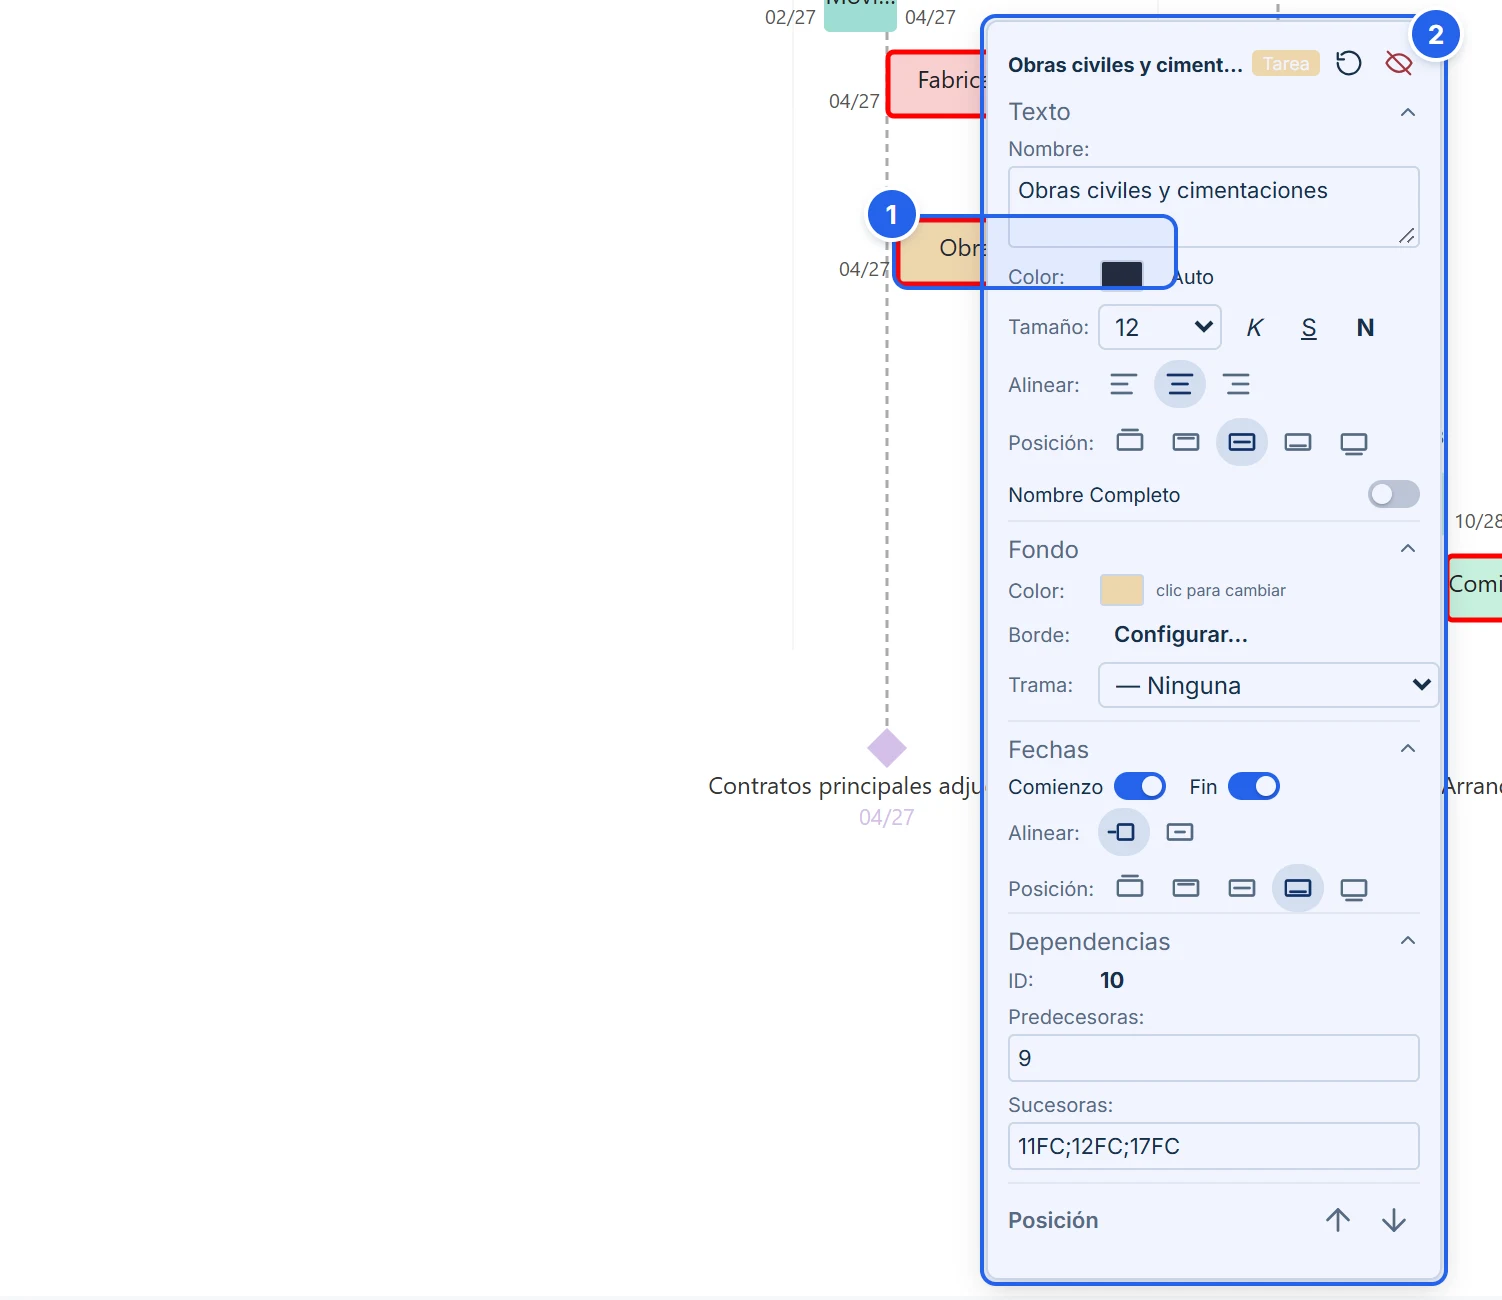
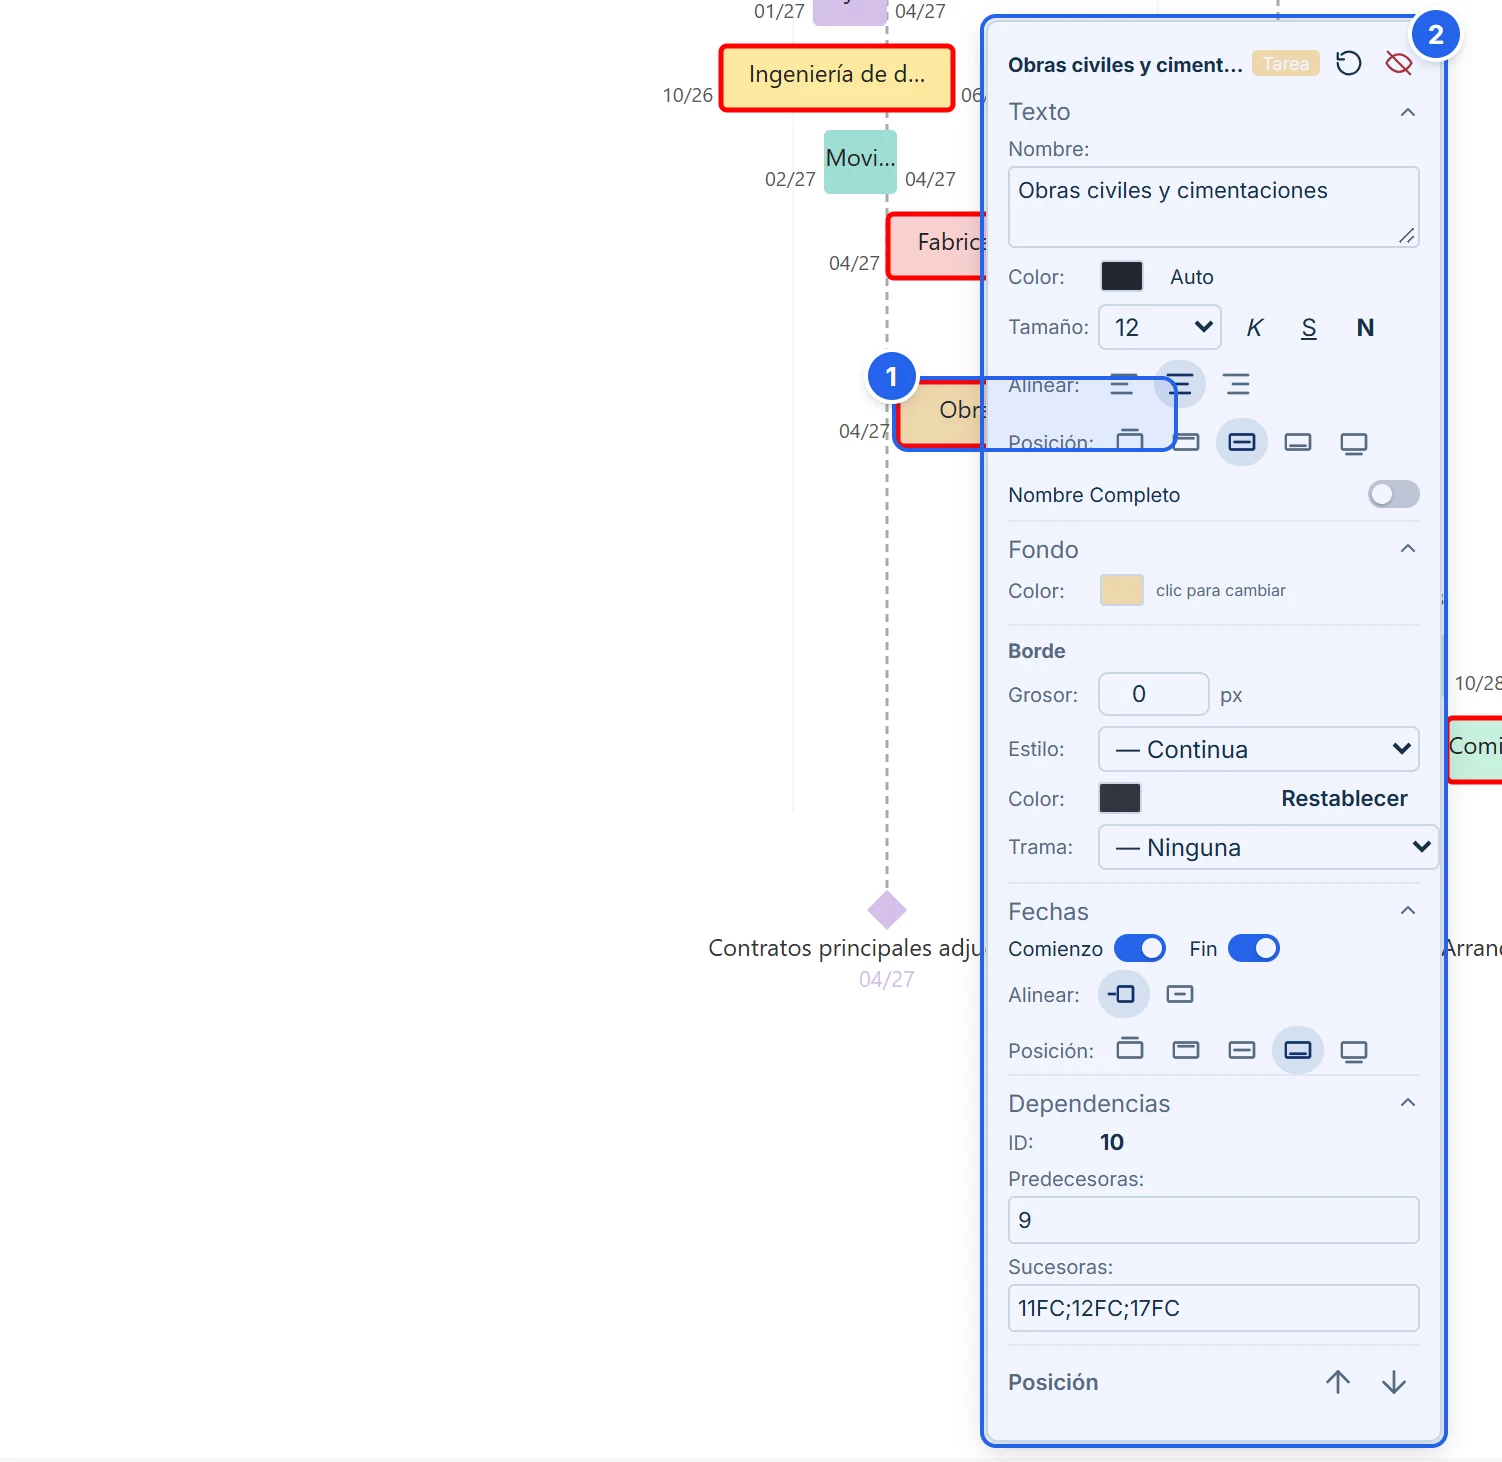
Borde de años y barras: sección integrada en su menú (grosor, estilo, color) en lugar de una ventana aparte
- Menú del año y panel de la barra: sección «Borde» con divisor y controles a la vista
- La fila de borde solo aparece en tareas (se oculta en hitos y eventos)
- Manual y figuras actualizadas

diff --git a/src/OpenGanttLab 3.1.html b/src/OpenGanttLab 3.1.html
@@ -1905,9 +1905,11 @@ tr.ed-mv input.eirp,tr.ed-mv input.efrp,tr.ed-mv input.edur{background:#fff1cf;b
       <span id="pbmSwatch" style="width:22px;height:16px;display:inline-block;border:1px solid var(--line);border-radius:2px;cursor:pointer" title="Clic para cambiar color barra"></span>
       <span class="pop-unit" style="font-size:8px">clic para cambiar</span>
     </div>
-    <div id="pbmBorderRow" style="display:flex;align-items:center;gap:5px;font-size:10px">
-      <span class="pop-unit" style="min-width:40px">Borde:</span>
-      <button type="button" class="rb-flat" style="padding:2px 8px" onclick="presOpenBarBorder(event)" title="Grosor, estilo y color del contorno de la barra">Configurar…</button>
+    <div id="pbmBorderRow" style="display:flex;flex-direction:column;gap:5px;font-size:10px;border-top:1px solid var(--grid);margin-top:4px;padding-top:6px">
+      <span class="pop-unit" style="font-weight:700">Borde</span>
+      <div style="display:flex;align-items:center;gap:5px"><span class="pop-unit" style="min-width:40px">Grosor:</span><input type="number" id="pbmBdW" class="pop-num" min="0" max="8" step="0.5" oninput="presBdSet('bar')" style="width:56px"><span class="pop-unit">px</span></div>
+      <div style="display:flex;align-items:center;gap:5px"><span class="pop-unit" style="min-width:40px">Estilo:</span><select id="pbmBdDash" class="rb-sel" onchange="presBdSet('bar')" style="flex:1;max-width:none"><option value="solid">— Continua</option><option value="dotted">· · Punteada</option><option value="dashed">— Rayada</option><option value="dashed2">— Mixta</option></select></div>
+      <div style="display:flex;align-items:center;gap:5px"><span class="pop-unit" style="min-width:40px">Color:</span><span id="pbmBdColor" onclick="presBdColor('bar')" style="width:22px;height:16px;display:inline-block;border:1px solid var(--line);border-radius:2px;cursor:pointer" title="Clic para cambiar color"></span><button type="button" class="rb-flat" style="padding:1px 6px;margin-left:auto" onclick="presBdReset('bar')">Restablecer</button></div>
     </div>
     <div id="pbmPatternRow" style="display:flex;align-items:center;gap:5px;font-size:10px">
       <span class="pop-unit" style="min-width:40px">Trama:</span>
@@ -2388,10 +2390,13 @@ tr.ed-mv input.eirp,tr.ed-mv input.efrp,tr.ed-mv input.edur{background:#fff1cf;b
       <option value="18">18</option><option value="20">20</option><option value="24">24</option>
     </select>
   </div>
-  <div style="display:flex;align-items:center;gap:8px;margin-bottom:8px">
-    <span style="font-size:10px;color:#666;min-width:42px">Borde:</span>
-    <button type="button" onclick="presOpenYearBorder(event)" style="font-size:10px;padding:2px 8px;cursor:pointer;border:1px solid #ccc;border-radius:3px;background:#f5f5f5">Configurar…</button>
+  <div style="border-top:1px solid #e3e3e3;margin:0 0 8px;padding-top:8px">
+    <div style="font-size:10px;font-weight:700;color:#555;margin-bottom:6px">Borde</div>
+    <div style="display:flex;align-items:center;gap:8px;margin-bottom:6px"><span style="font-size:10px;color:#666;min-width:42px">Grosor:</span><input type="number" id="pymBdW" min="0" max="8" step="0.5" oninput="presBdSet('year')" style="width:52px;font:inherit;font-size:10px;padding:2px 4px;border:1px solid #ccc;border-radius:3px"><span style="font-size:9px;color:#aaa">px</span></div>
+    <div style="display:flex;align-items:center;gap:8px;margin-bottom:6px"><span style="font-size:10px;color:#666;min-width:42px">Estilo:</span><select id="pymBdDash" onchange="presBdSet('year')" style="font:inherit;padding:2px 4px;border:1px solid #ccc;border-radius:3px;font-size:10px;flex:1"><option value="solid">— Continua</option><option value="dotted">· · Punteada</option><option value="dashed">— Rayada</option><option value="dashed2">— Mixta</option></select></div>
+    <div style="display:flex;align-items:center;gap:8px"><span style="font-size:10px;color:#666;min-width:42px">Color:</span><span id="pymBdColor" onclick="presBdColor('year')" style="width:22px;height:16px;display:inline-block;border:1px solid #999;border-radius:2px;cursor:pointer"></span><button type="button" onclick="presBdReset('year')" style="margin-left:auto;font-size:9px;padding:1px 6px;cursor:pointer;border:1px solid #ccc;border-radius:2px;background:#f5f5f5">Restablecer</button></div>
   </div>
+  <div style="border-top:1px solid #e3e3e3;margin:8px 0 0;padding-top:8px"></div>
   <div style="display:flex;align-items:center;gap:8px;margin-bottom:8px" title="Une este año con los siguientes en una sola banda de la franja">
     <span style="font-size:10px;color:#666;min-width:42px">Unir hasta:</span>
     <select id="pymMergeTo" onchange="presYearMergeSet()" style="font:inherit;padding:2px 4px;border:1px solid #ccc;border-radius:3px;font-size:10px;flex:1"></select>
@@ -4240,7 +4245,7 @@ function applyPickerColor(color){
   else if(_cpTarget.type==='presdeltacolor'){if(_cpTarget.w==='A')_deltaCA=color;else _deltaCB=color;renderPres();closeColorPicker();return;}
   else if(_cpTarget.type==='preslegtitle'){PRES_LEGEND_CFG.titleColor=color;const sw=document.getElementById('plgTitleColor');if(sw)sw.style.background=color;renderPres();closeColorPicker();return;}
   else if(_cpTarget.type==='presconn'){const c=PRES_CONNECTORS.find(q=>q.id===_conMenuId);if(c){_presSnap();c.color=color;const sw=document.getElementById('pcmColor');if(sw)sw.style.background=color;renderPres();}closeColorPicker();return;}
-  else if(_cpTarget.type==='presborder'){if(_presBorderCtx){_presSnap();_presBorderObj(_presBorderCtx).borderColor=color;const sw=document.getElementById('pbdColor');if(sw)sw.style.background=color;renderPres();}closeColorPicker();return;}
+  else if(_cpTarget.type==='presborder'){if(_presBorderCtx){_presSnap();_presBorderObj(_presBorderCtx).borderColor=color;const sw=document.getElementById('pbdColor');if(sw)sw.style.background=color;['pymBdColor','pbmBdColor'].forEach(i=>{const e=document.getElementById(i);if(e)e.style.background=color;});renderPres();}closeColorPicker();return;}
   else if(_cpTarget.type==='pressubprocband'){_presSubprocColors[_cpTarget.v]=color;renderPres();closeColorPicker();return;}
   else if(_cpTarget.type==='pressubproccolor'){_presSubprocCol=color;_presSubprocColors={};presSyncSegUI();renderPres();closeColorPicker();return;}
   else if(_cpTarget.type==='presyeardivcolor'){_presYearDivCol=color;presSyncSegUI();renderPres();closeColorPicker();return;}
@@ -5735,6 +5740,31 @@ function presOpenBorderMenu(kind,key,x,y){
    +'<div style="display:flex;gap:8px;align-items:center;margin-bottom:8px"><span style="min-width:44px;color:#666">Estilo:</span><select id="pbdDash" onchange="presBorderSet()" style="flex:1;font:inherit;font-size:11px;padding:2px 4px;border:1px solid #ccc;border-radius:3px">'+S('solid','— Continua')+S('dotted','· · Punteada')+S('dashed','— Rayada')+S('dashed2','— Mixta')+'</select></div>'
    +'<div style="display:flex;gap:8px;align-items:center"><span style="min-width:44px;color:#666">Color:</span><span id="pbdColor" onclick="presBorderPickColor()" style="width:22px;height:16px;display:inline-block;border:1px solid #999;border-radius:2px;cursor:pointer;background:'+col+'"></span><button type="button" onclick="presBorderReset()" style="margin-left:auto;font-size:10px;padding:1px 6px;border:1px solid #ccc;border-radius:3px;background:#f5f5f5;cursor:pointer">Restablecer</button></div>';
   m.style.display='block';m.style.left=Math.max(4,Math.min(x+4,innerWidth-232))+'px';m.style.top=Math.max(4,Math.min(y+4,innerHeight-(m.offsetHeight||180)-8))+'px';
+}
+// Borde integrado en los menús del año y de la barra (mismos datos que el menú de borde de los agrupadores)
+function _presBdCtx(kind){return{kind,key:kind==='year'?(_presYearIsLB?'LB':'')+_presYearKey:_presBarKey};}
+function presBdFill(kind){
+  const c=_presBdCtx(kind);if(!c.key)return;_presBorderCtx=c;
+  const o=_presBorderObj(c),p=kind==='year'?'pym':'pbm';
+  const w=document.getElementById(p+'BdW'),d=document.getElementById(p+'BdDash'),s=document.getElementById(p+'BdColor');
+  if(w)w.value=(o.borderW!=null&&o.borderW!=='')?o.borderW:0;if(d)d.value=o.borderDash||'solid';if(s)s.style.background=o.borderColor||'#333333';
+}
+function presBdSet(kind){
+  const c=_presBdCtx(kind);if(!c.key)return;_presBorderCtx=c;_presSnap();
+  const o=_presBorderObj(c),p=kind==='year'?'pym':'pbm',w=document.getElementById(p+'BdW'),d=document.getElementById(p+'BdDash');
+  if(w&&w.value!=='')o.borderW=Math.max(0,Math.min(8,+w.value));if(d)o.borderDash=d.value;
+  renderPres();
+}
+function presBdColor(kind){
+  _presBorderCtx=_presBdCtx(kind);_cpTarget={type:'presborder'};
+  document.getElementById('cpLabel').textContent='Color del borde';
+  const r=document.getElementById(kind==='year'?'pymBdColor':'pbmBdColor').getBoundingClientRect(),cp=document.getElementById('colorPicker');
+  cp.style.display='block';cp.style.left=Math.max(4,Math.min(r.right+6,innerWidth-250))+'px';cp.style.top=Math.max(4,Math.min(r.top,innerHeight-(cp.offsetHeight||300)))+'px';
+}
+function presBdReset(kind){
+  const c=_presBdCtx(kind);if(!c.key)return;_presBorderCtx=c;_presSnap();
+  const o=_presBorderObj(c);delete o.borderColor;delete o.borderW;delete o.borderDash;delete o.borderShape;
+  presBdFill(kind);renderPres();
 }
 function presOpenYearBorder(e){e.stopPropagation();presOpenBorderMenu('year',(_presYearIsLB?'LB':'')+_presYearKey,e.clientX,e.clientY);}
 function presOpenBarBorder(e){e.stopPropagation();if(!_presBarKey)return;presOpenBorderMenu('bar',_presBarKey,e.clientX,e.clientY);}
@@ -7396,6 +7426,7 @@ document.getElementById('presBody').addEventListener('dblclick',e=>{
     document.getElementById('pbmTitle').textContent=(key.startsWith('LB|')?'[LB] ':'')+parts[2];
     document.getElementById('pbmNombre').value=opt.label!==undefined?opt.label:parts[2];
     document.getElementById('pbmClase').textContent='Tarea';
+    presBdFill('bar');
     document.getElementById('pbmClase').style.background=CAT2_COLOR[parts[1]]||'#3b6ea5';
     document.getElementById('pbmSwatch').style.background=opt.color;
     // swatch de texto: mostrar color efectivo (manual si existe, si no el auto por contraste)
@@ -7522,6 +7553,7 @@ document.getElementById('presBody').addEventListener('dblclick',e=>{
     const wmSel=document.getElementById('pymWidthMul');
     if(wmSel) wmSel.value=PRES_YEAR_WIDTH_MUL[yrKey]||1;
     presYearMergeFill(yrKey,isLBYear);
+    presBdFill('year');
     const pym=document.getElementById('presYearMenu');
     pym.style.display='block';pym.style.left=Math.min(e.clientX+5,innerWidth-210)+'px';pym.style.top=Math.min(e.clientY+5,innerHeight-150)+'px';
   }

diff --git a/docs/manual/index.html b/docs/manual/index.html
@@ -465,7 +465,7 @@
 
 <h3 id="vistas--panel-edicion">El panel de edición</h3>
 <p>Un doble clic sobre una barra abre su panel de edición.</p>
-<figure class="fig" id="figura-42"><div class="imgbox"><img src="images/annotated/fig-42-ldt-panel-edicion.webp" width="751" height="650" alt="Panel de edición de una barra" loading="lazy" decoding="async"></div><figcaption><span class="fn">Figura 42 — Panel de edición de una barra</span><span class="fd">Todos los cambios del panel son visuales: nunca modifican la Tabla de Datos.</span><ol class="legend"><li>Barra seleccionada (doble clic)</li><li>Panel de edición</li></ol><div class="observe"><b>Qué observar</b><ul><li>Texto: nombre, color, tamaño, negrita, alineación y posición.</li><li>Fondo: color de la barra y trama.</li><li>Fechas: mostrar comienzo y fin, alinear y posición.</li><li>Posición: capa (arriba/abajo).</li></ul></div></figcaption></figure>
+<figure class="fig" id="figura-42"><div class="imgbox"><img src="images/annotated/fig-42-ldt-panel-edicion.webp" width="751" height="731" alt="Panel de edición de una barra" loading="lazy" decoding="async"></div><figcaption><span class="fn">Figura 42 — Panel de edición de una barra</span><span class="fd">Todos los cambios del panel son visuales: nunca modifican la Tabla de Datos.</span><ol class="legend"><li>Barra seleccionada (doble clic)</li><li>Panel de edición</li></ol><div class="observe"><b>Qué observar</b><ul><li>Texto: nombre, color, tamaño, negrita, alineación y posición.</li><li>Fondo: color de la barra y trama.</li><li>Fechas: mostrar comienzo y fin, alinear y posición.</li><li>Posición: capa (arriba/abajo).</li></ul></div></figcaption></figure>
 <div class="callout warn" role="note"><svg class="ic" viewBox="0 0 24 24" aria-hidden="true"><path d="M10.3 3.9 1.8 18a2 2 0 0 0 1.7 3h17a2 2 0 0 0 1.7-3L13.7 3.9a2 2 0 0 0-3.4 0z"/><path d="M12 9v4"/><path d="M12 17h.01"/></svg><div class="cb"><div class="ct">Lo visual no cambia los datos</div><p>Editar el texto o el color en la Línea de Tiempo solo afecta la presentación. El dato real de la tabla, del Gantt, del Excel y del XML no se toca. La única excepción es la sección <span class="ui">Dependencias</span> descrita abajo.</p></div></div>
 
 <h3 id="vistas--panel-dependencias">Dependencias desde el panel</h3>
@@ -507,7 +507,7 @@
 <figure class="fig" id="figura-45"><div class="imgbox"><img src="images/screenshots/fig-45-ldt-agrupador-niveles.webp" width="1188" height="1238" alt="Agrupador de dos niveles" loading="lazy" decoding="async"></div><figcaption><span class="fn">Figura 45 — Agrupador de dos niveles</span><span class="fd">Categoría 1 como nivel 1 y Categoría 2 como nivel 2.</span><div class="observe"><b>Qué observar</b><ul><li>La columna del nivel externo (Categoría 1) es un solo recuadro que abarca sus bandas internas.</li><li>Cada banda interna (Categoría 2) tiene su propia etiqueta.</li></ul></div></figcaption></figure>
 
 <h3 id="vistas--borde-agrupador">Estilo del borde de los agrupadores, años y tareas</h3>
-<p>El mismo menú de borde sirve para tres elementos: <b>botón «Configurar…» junto a «Borde»</b> en el menú de un año (doble clic en el año) y en la sección <span class="ui">Fondo</span> del panel de una barra de tarea (doble clic en la barra). Una barra con borde propio reemplaza al borde rojo de la ruta crítica.</p>
+<p>Los agrupadores usan un menú propio (clic derecho). Los <b>años</b> y las <b>barras de tarea</b> tienen una sección <b>Borde</b>, separada por un divisor y con sus controles a la vista (Grosor, Estilo, Color y Restablecer), dentro del menú del año (doble clic en el año) y del panel de la barra (doble clic en la barra, bajo Fondo). Los cambios se ven al instante. Una barra con borde propio reemplaza al borde rojo de la ruta crítica.</p>
 <p>Un <b>clic derecho</b> sobre la etiqueta o el borde de una banda vertical (o sobre un rectángulo del agrupador horizontal) abre un menú con el estilo de su borde:</p>
 <ul>
 <li><b>Forma</b> (bandas verticales): <i>Caja completa</i> o <i>Solo línea inferior</i>. Con «solo línea» la banda queda como un separador entre grupos, por ejemplo una línea punteada larga entre fases.</li>
@@ -534,7 +534,7 @@
 
 <h2 id="vistas--tramos-anos">Franja de años: tramos</h2>
 <p>Un doble clic sobre un año abre su menú. Con <b>Unir hasta</b> se funden ese año y los siguientes en una sola banda de la franja (por ejemplo «2030 - 2033»), que conserva el color y la fuente del primer año. El campo <b>Texto</b> reemplaza la etiqueta. Para separar de nuevo, elija «(sin unir)». Los tramos se guardan con la sesión y con Compartir.</p>
-<figure class="fig" id="figura-50"><div class="imgbox"><img src="images/screenshots/fig-50-ldt-tramos-anos.webp" width="1025" height="572" alt="Tramo en la franja de años" loading="lazy" decoding="async"></div><figcaption><span class="fn">Figura 50 — Tramo en la franja de años</span><span class="fd">Doble clic sobre el primer año del tramo.</span><div class="observe"><b>Qué observar</b><ul><li>Los años 2027 y 2028 unidos en una sola banda.</li><li>El menú del año: Unir hasta, Texto, color, fuente, escala y ancho.</li></ul></div></figcaption></figure>
+<figure class="fig" id="figura-50"><div class="imgbox"><img src="images/screenshots/fig-50-ldt-tramos-anos.webp" width="1025" height="656" alt="Tramo en la franja de años" loading="lazy" decoding="async"></div><figcaption><span class="fn">Figura 50 — Tramo en la franja de años</span><span class="fd">Doble clic sobre el primer año del tramo.</span><div class="observe"><b>Qué observar</b><ul><li>Los años 2027 y 2028 unidos en una sola banda.</li><li>El menú del año: Unir hasta, Texto, color, fuente, escala y ancho.</li></ul></div></figcaption></figure>
 
 <h2 id="vistas--hitos-forma">Hitos: forma y texto adicional</h2>
 <p>El panel de edición de un hito (doble clic) incluye dos secciones:</p>

diff --git a/docs/manual/content/06-vistas.html b/docs/manual/content/06-vistas.html
@@ -99,7 +99,7 @@
 <fig slug="ldt-agrupador-niveles" t="Agrupador de dos niveles" observe="La columna del nivel externo (Categoría 1) es un solo recuadro que abarca sus bandas internas.|Cada banda interna (Categoría 2) tiene su propia etiqueta.">Categoría 1 como nivel 1 y Categoría 2 como nivel 2.</fig>
 
 <h3 id="borde-agrupador">Estilo del borde de los agrupadores, años y tareas</h3>
-<p>El mismo menú de borde sirve para tres elementos: <b>botón «Configurar…» junto a «Borde»</b> en el menú de un año (doble clic en el año) y en la sección <ui>Fondo</ui> del panel de una barra de tarea (doble clic en la barra). Una barra con borde propio reemplaza al borde rojo de la ruta crítica.</p>
+<p>Los agrupadores usan un menú propio (clic derecho). Los <b>años</b> y las <b>barras de tarea</b> tienen una sección <b>Borde</b>, separada por un divisor y con sus controles a la vista (Grosor, Estilo, Color y Restablecer), dentro del menú del año (doble clic en el año) y del panel de la barra (doble clic en la barra, bajo Fondo). Los cambios se ven al instante. Una barra con borde propio reemplaza al borde rojo de la ruta crítica.</p>
 <p>Un <b>clic derecho</b> sobre la etiqueta o el borde de una banda vertical (o sobre un rectángulo del agrupador horizontal) abre un menú con el estilo de su borde:</p>
 <ul>
 <li><b>Forma</b> (bandas verticales): <i>Caja completa</i> o <i>Solo línea inferior</i>. Con «solo línea» la banda queda como un separador entre grupos, por ejemplo una línea punteada larga entre fases.</li>
